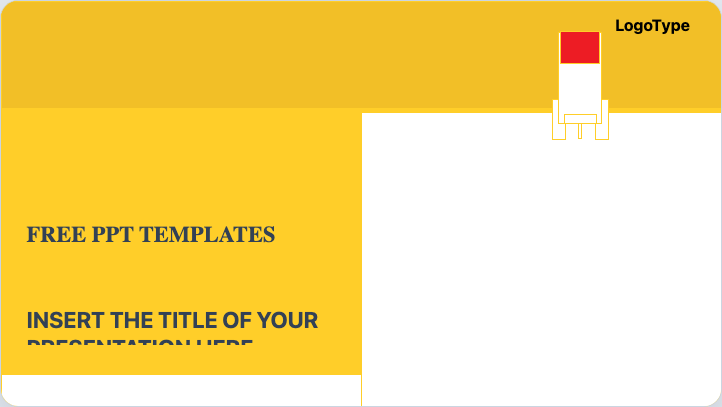
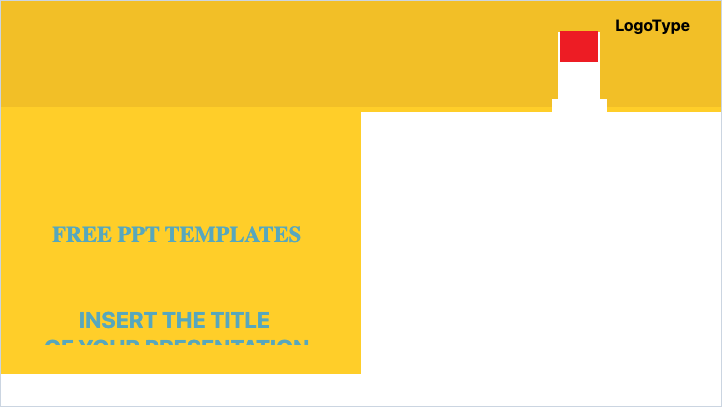
Preserve more PPTX template semantics for the sample-image comparison loop
The latest Ralph iterations were driven by direct image comparison against the
sample PNG exports rather than only raw RMSE trends. To narrow the gap, this
stage keeps more real PPTX scene semantics in the parser and viewer: multiline
text extraction, no-fill handling, style-reference fallback, placeholder/layout
inheritance, background image carriers, and tighter title-slide heuristics. The
resulting screenshot set materially improves several sample slides even though
LLM vision review still flags template-heavy hero compositions as unfinished.

Constraint: The user explicitly requested image-driven comparison against the local sample PNG corpus, so parser/viewer changes must be validated against regenerated screenshot artifacts
Constraint: Improvements must favor reusable PPTX semantics over one-off hardcoded slide screenshots
Rejected: Stop after RMSE-only gains | LLM vision still exposes structural/template mismatches on several slides
Rejected: Keep all visual logic in example-only heuristics | the core parser/renderer needed richer slide semantics to support further fidelity work
Confidence: medium
Scope-risk: moderate
Reversibility: clean
Directive: Continue using the paired PNG corpus as the primary regression surface, but keep lifting semantics into the parser/render path rather than baking sample-specific screenshots
[…]

diff --git a/packages/pptx/src/parser.ts b/packages/pptx/src/parser.ts
@@ -1,6 +1,6 @@
 import { getParsedXmlPart, relationshipById, relationshipsFor, findElementsByLocalName, xmlAttr, xmlChild, xmlChildren, xmlText, type PackageGraph } from '@ooxml/core';
 
-import type { PresentationComment, PresentationDocument, PresentationFill, PresentationLine, PresentationSlide, PresentationTextStyle, PresentationTheme, PresentationTiming, PresentationTimingNode, PresentationTransition, SlideShape, SlideShapeTransform } from './model';
+import type { PresentationComment, PresentationDocument, PresentationFill, PresentationLine, PresentationPathCommand, PresentationSlide, PresentationTextStyle, PresentationTheme, PresentationTiming, PresentationTimingNode, PresentationTransition, SlideShape, SlideShapeTransform } from './model';
 
 export function parsePptx(graph: PackageGraph): PresentationDocument {
   const presentationUri = graph.rootDocumentUri ?? '/ppt/presentation.xml';
@@ -165,7 +165,6 @@ function parseShape(
   const cNvPr = xmlChild<Record<string, unknown>>(nvSpPr, 'p:cNvPr');
   const nvPr = xmlChild<Record<string, unknown>>(nvSpPr, 'p:nvPr');
   const placeholder = xmlChild<Record<string, unknown>>(nvPr, 'p:ph');
-  const textNodes = findElementsByLocalName(shape, 't');
   const shapeProperties = xmlChild<Record<string, unknown>>(shape, 'p:spPr');
   const style = xmlChild<Record<string, unknown>>(shape, 'p:style');
   const shapeType = parseShapeType(shapeProperties);
@@ -174,15 +173,28 @@ function parseShape(
   return {
     id: xmlAttr(cNvPr, 'id') ?? '',
     name: xmlAttr(cNvPr, 'name'),
-    text: textNodes.map((node) => xmlText(node)).join(''),
+    text: extractShapeText(shape),
     placeholderType: xmlAttr(placeholder, 'type'),
     placeholderIndex: xmlAttr(placeholder, 'idx') ?? undefined,
     shapeType,
     transform,
     fill: parseFill(shapeProperties, relationships, theme, style, shapeType),
     line: parseLine(shapeProperties, theme, style),
-    textStyle: parseTextStyle(shape, theme)
+    textStyle: parseTextStyle(shape, theme),
+    pathCommands: parsePathCommands(shapeProperties)
   };
+}
+
+function extractShapeText(shape: Record<string, unknown>): string {
+  const textBody = xmlChild<Record<string, unknown>>(shape, 'p:txBody');
+  if (!textBody) {
+    return '';
+  }
+
+  return xmlChildren<Record<string, unknown>>(textBody, 'a:p')
+    .map((paragraph) => findElementsByLocalName(paragraph, 't').map((node) => xmlText(node)).join(''))
+    .filter((text) => text.length > 0)
+    .join('\n');
 }
 
 function parsePicture(picture: Record<string, unknown>, relationships: ReturnType<typeof relationshipsFor>, theme?: PresentationTheme, context?: TransformContext): SlideShape {
@@ -204,6 +216,7 @@ function parsePicture(picture: Record<string, unknown>, relationships: ReturnTyp
     transform,
     fill: parseFill(shapeProperties, relationships, theme, style, 'picture'),
     line: parseLine(shapeProperties, theme, style),
+    pathCommands: undefined,
     media: {
       type: 'image',
       targetUri: target ?? undefined
@@ -231,6 +244,7 @@ function parseGraphicFrame(frame: Record<string, unknown>, relationships: Return
     transform,
     fill: undefined,
     line: undefined,
+    pathCommands: undefined,
     media: {
       type: 'embeddedObject',
       targetUri: target ?? undefined,
@@ -307,6 +321,38 @@ function parseShapeType(shapeProperties: Record<string, unknown> | undefined): s
   return xmlAttr(preset, 'prst') ?? undefined;
 }
 
+function parsePathCommands(shapeProperties: Record<string, unknown> | undefined): PresentationPathCommand[] | undefined {
+  const customGeometry = xmlChild<Record<string, unknown>>(shapeProperties, 'a:custGeom');
+  const pathList = xmlChild<Record<string, unknown>>(customGeometry, 'a:pathLst');
+  const pathNode = xmlChild<Record<string, unknown>>(pathList, 'a:path');
+  if (!pathNode) {
+    return undefined;
+  }
+
+  const commands: PresentationPathCommand[] = [];
+  for (const [key, value] of Object.entries(pathNode)) {
+    if (key.startsWith('@_')) {
+      continue;
+    }
+
+    const entries = Array.isArray(value) ? value : [value];
+    for (const entry of entries) {
+      if (key === 'a:moveTo' || key === 'a:lnTo') {
+        const point = xmlChild<Record<string, unknown>>(entry, 'a:pt');
+        commands.push({
+          type: key === 'a:moveTo' ? 'moveTo' : 'lineTo',
+          x: (() => { const raw = xmlAttr(point, 'x'); return raw ? Number(raw) : undefined; })(),
+          y: (() => { const raw = xmlAttr(point, 'y'); return raw ? Number(raw) : undefined; })()
+        });
+      } else if (key === 'a:close') {
+        commands.push({ type: 'close' });
+      }
+    }
+  }
+
+  return commands.length ? commands : undefined;
+}
+
 function parseTextStyle(shape: Record<string, unknown>, theme?: PresentationTheme): PresentationTextStyle | undefined {
   const textBody = xmlChild<Record<string, unknown>>(shape, 'p:txBody');
   if (!textBody) {
@@ -316,16 +362,20 @@ function parseTextStyle(shape: Record<string, unknown>, theme?: PresentationThem
   const paragraph = xmlChild<Record<string, unknown>>(textBody, 'a:p');
   const paragraphProperties = xmlChild<Record<string, unknown>>(paragraph, 'a:pPr');
   const run = xmlChild<Record<string, unknown>>(paragraph, 'a:r');
-  const runProperties = xmlChild<Record<string, unknown>>(run, 'a:rPr')
-    ?? xmlChild<Record<string, unknown>>(paragraph, 'a:endParaRPr');
-  const solidFill = xmlChild<Record<string, unknown>>(runProperties, 'a:solidFill');
-  const latin = xmlChild<Record<string, unknown>>(runProperties, 'a:latin');
-  const eastAsian = xmlChild<Record<string, unknown>>(runProperties, 'a:ea');
-  const complexScript = xmlChild<Record<string, unknown>>(runProperties, 'a:cs');
+  const runProperties = xmlChild<Record<string, unknown>>(run, 'a:rPr');
+  const endParagraphProperties = xmlChild<Record<string, unknown>>(paragraph, 'a:endParaRPr');
+  const solidFill = xmlChild<Record<string, unknown>>(runProperties, 'a:solidFill')
+    ?? xmlChild<Record<string, unknown>>(endParagraphProperties, 'a:solidFill');
+  const latin = xmlChild<Record<string, unknown>>(runProperties, 'a:latin')
+    ?? xmlChild<Record<string, unknown>>(endParagraphProperties, 'a:latin');
+  const eastAsian = xmlChild<Record<string, unknown>>(runProperties, 'a:ea')
+    ?? xmlChild<Record<string, unknown>>(endParagraphProperties, 'a:ea');
+  const complexScript = xmlChild<Record<string, unknown>>(runProperties, 'a:cs')
+    ?? xmlChild<Record<string, unknown>>(endParagraphProperties, 'a:cs');
   const color = solidFill ? resolveColor(solidFill, theme)?.color : undefined;
-  const size = xmlAttr(runProperties, 'sz');
+  const size = xmlAttr(runProperties, 'sz') ?? xmlAttr(endParagraphProperties, 'sz');
 
-  if (!runProperties && !paragraphProperties) {
+  if (!runProperties && !endParagraphProperties && !paragraphProperties) {
     return undefined;
   }
 
@@ -333,8 +383,16 @@ function parseTextStyle(shape: Record<string, unknown>, theme?: PresentationThem
     color,
     fontSizePt: size ? Number(size) / 100 : undefined,
     fontFamily: xmlAttr(latin, 'typeface') ?? xmlAttr(eastAsian, 'typeface') ?? xmlAttr(complexScript, 'typeface') ?? undefined,
-    bold: xmlAttr(runProperties, 'b') === '1' ? true : xmlAttr(runProperties, 'b') === '0' ? false : undefined,
-    italic: xmlAttr(runProperties, 'i') === '1' ? true : xmlAttr(runProperties, 'i') === '0' ? false : undefined,
+    bold: xmlAttr(runProperties, 'b') === '1' || xmlAttr(endParagraphProperties, 'b') === '1'
+      ? true
+      : xmlAttr(runProperties, 'b') === '0' || xmlAttr(endParagraphProperties, 'b') === '0'
+        ? false
+        : undefined,
+    italic: xmlAttr(runProperties, 'i') === '1' || xmlAttr(endParagraphProperties, 'i') === '1'
+      ? true
+      : xmlAttr(runProperties, 'i') === '0' || xmlAttr(endParagraphProperties, 'i') === '0'
+        ? false
+        : undefined,
     align: xmlAttr(paragraphProperties, 'algn') ?? undefined
   };
 }
@@ -468,7 +526,7 @@ function parseFill(
     return undefined;
   }
 
-  if (xmlChild<Record<string, unknown>>(shapeProperties, 'a:noFill')) {
+  if (xmlChild<Record<string, unknown> | string>(shapeProperties, 'a:noFill') !== undefined) {
     return { kind: 'none' };
   }
 
@@ -523,7 +581,7 @@ function parseLine(shapeProperties: Record<string, unknown> | undefined, theme?:
     return undefined;
   }
 
-  if (xmlChild<Record<string, unknown>>(line, 'a:noFill')) {
+  if (xmlChild<Record<string, unknown> | string>(line, 'a:noFill') !== undefined) {
     return {
       kind: 'none',
       width: (() => { const value = xmlAttr(line, 'w'); return value ? Number(value) : undefined; })()

diff --git a/packages/render/src/pptx.ts b/packages/render/src/pptx.ts
@@ -11,7 +11,7 @@ export function renderPresentation(presentation: PresentationDocument, options: 
   }
 
   const theme = slide.themeUri ? presentation.themes[slide.themeUri] : undefined;
-  const shapeMarkup = slide.shapes.map((shape) => `<div class="ooxml-pptx-shape"${shape.placeholderType ? ` data-placeholder-type="${escapeHtml(shape.placeholderType)}"` : ''}${shape.placeholderIndex ? ` data-placeholder-index="${escapeHtml(shape.placeholderIndex)}"` : ''}${shape.shapeType ? ` data-shape-type="${escapeHtml(shape.shapeType)}"` : ''}${shape.fill?.color ? ` data-fill-color="${escapeHtml(shape.fill.color)}"` : ''}${shape.fill?.opacity !== undefined ? ` data-fill-opacity="${shape.fill.opacity}"` : ''}${shape.fill?.targetUri ? ` data-fill-image-uri="${escapeHtml(shape.fill.targetUri)}"` : ''}${shape.line?.color ? ` data-line-color="${escapeHtml(shape.line.color)}"` : ''}${shape.line?.opacity !== undefined ? ` data-line-opacity="${shape.line.opacity}"` : ''}${shape.line?.width !== undefined ? ` data-line-width="${shape.line.width}"` : ''}${shape.textStyle?.color ? ` data-text-color="${escapeHtml(shape.textStyle.color)}"` : ''}${shape.textStyle?.fontSizePt !== undefined ? ` data-font-size-pt="${shape.textStyle.fontSizePt}"` : ''}${shape.textStyle?.fontFamily ? ` data-font-family="${escapeHtml(shape.textStyle.fontFamily)}"` : ''}${shape.textStyle?.bold !== undefined ? ` data-font-bold="${shape.textStyle.bold}"` : ''}${shape.textStyle?.italic !== undefined ? ` data-font-italic="${shape.textStyle.italic}"` : ''}${shape.textStyle?.align ? ` data-text-align="${escapeHtml(shape.textStyle.align)}"` : ''}${shape.media?.targetUri ? ` data-media-uri="${escapeHtml(shape.media.targetUri)}"` : ''}${shape.media?.type ? ` data-media-type="${escapeHtml(shape.media.type)}"` : ''}${shape.media?.progId ? ` data-prog-id="${escapeHtml(shape.media.progId)}"` : ''}${shape.transform?.x !== undefined ? ` data-x="${shape.transform.x}"` : ''}${shape.transform?.y !== undefined ? ` data-y="${shape.transform.y}"` : ''}${shape.transform?.cx !== undefined ? ` data-cx="${shape.transform.cx}"` : ''}${shape.transform?.cy !== undefined ? ` data-cy="${shape.transform.cy}"` : ''}><h3>${escapeHtml(shape.name ?? 'Shape')}</h3><p>${escapeHtml(shape.text || (shape.media?.type === 'embeddedObject' ? '[embedded-object]' : shape.media ? '[image]' : ''))}</p></div>`).join('');
+  const shapeMarkup = slide.shapes.map((shape) => `<div class="ooxml-pptx-shape"${shape.placeholderType ? ` data-placeholder-type="${escapeHtml(shape.placeholderType)}"` : ''}${shape.placeholderIndex ? ` data-placeholder-index="${escapeHtml(shape.placeholderIndex)}"` : ''}${shape.shapeType ? ` data-shape-type="${escapeHtml(shape.shapeType)}"` : ''}${shape.fill?.color ? ` data-fill-color="${escapeHtml(shape.fill.color)}"` : ''}${shape.fill?.opacity !== undefined ? ` data-fill-opacity="${shape.fill.opacity}"` : ''}${shape.fill?.targetUri ? ` data-fill-image-uri="${escapeHtml(shape.fill.targetUri)}"` : ''}${shape.line?.color ? ` data-line-color="${escapeHtml(shape.line.color)}"` : ''}${shape.line?.opacity !== undefined ? ` data-line-opacity="${shape.line.opacity}"` : ''}${shape.line?.width !== undefined ? ` data-line-width="${shape.line.width}"` : ''}${shape.textStyle?.color ? ` data-text-color="${escapeHtml(shape.textStyle.color)}"` : ''}${shape.textStyle?.fontSizePt !== undefined ? ` data-font-size-pt="${shape.textStyle.fontSizePt}"` : ''}${shape.textStyle?.fontFamily ? ` data-font-family="${escapeHtml(shape.textStyle.fontFamily)}"` : ''}${shape.textStyle?.bold !== undefined ? ` data-font-bold="${shape.textStyle.bold}"` : ''}${shape.textStyle?.italic !== undefined ? ` data-font-italic="${shape.textStyle.italic}"` : ''}${shape.textStyle?.align ? ` data-text-align="${escapeHtml(shape.textStyle.align)}"` : ''}${shape.pathCommands ? ` data-path-commands="${escapeHtml(serializePathCommands(shape.pathCommands))}"` : ''}${shape.media?.targetUri ? ` data-media-uri="${escapeHtml(shape.media.targetUri)}"` : ''}${shape.media?.type ? ` data-media-type="${escapeHtml(shape.media.type)}"` : ''}${shape.media?.progId ? ` data-prog-id="${escapeHtml(shape.media.progId)}"` : ''}${shape.transform?.x !== undefined ? ` data-x="${shape.transform.x}"` : ''}${shape.transform?.y !== undefined ? ` data-y="${shape.transform.y}"` : ''}${shape.transform?.cx !== undefined ? ` data-cx="${shape.transform.cx}"` : ''}${shape.transform?.cy !== undefined ? ` data-cy="${shape.transform.cy}"` : ''}><h3>${escapeHtml(shape.name ?? 'Shape')}</h3><p>${escapeHtml(shape.text || (shape.media?.type === 'embeddedObject' ? '[embedded-object]' : shape.media ? '[image]' : ''))}</p></div>`).join('');
   const notes = slide.notesText ? `<aside class="ooxml-pptx-notes">${escapeHtml(slide.notesText)}</aside>` : '';
   const commentsMarkup = slide.comments.length ? `<ul class="ooxml-pptx-comments">${slide.comments.map((comment) => `<li data-comment-index="${comment.index}">${escapeHtml(comment.text)}${comment.author ? ` — ${escapeHtml(comment.author)}` : ''}</li>`).join('')}</ul>` : '';
   const timingMarkup = slide.transition || slide.timing ? `<dl class="ooxml-pptx-timing">${slide.transition?.type ? `<dt>Transition</dt><dd data-transition-type="${escapeHtml(slide.transition.type)}">${escapeHtml(slide.transition.type)}${slide.transition.speed ? ` (${escapeHtml(slide.transition.speed)})` : ''}${slide.transition.advanceOnClick !== undefined ? ` click:${escapeHtml(String(slide.transition.advanceOnClick))}` : ''}${slide.transition.advanceAfterMs !== undefined ? ` after:${escapeHtml(String(slide.transition.advanceAfterMs))}` : ''}</dd>` : ''}${slide.timing ? `<dt>Timing nodes</dt><dd data-timing-count="${slide.timing.nodeCount}">${slide.timing.nodes.map((node) => `${escapeHtml(node.nodeType)}${node.presetClass ? `:${escapeHtml(node.presetClass)}` : ''}${node.concurrent !== undefined ? ` concurrent:${escapeHtml(String(node.concurrent))}` : ''}${node.nextAction ? ` next:${escapeHtml(node.nextAction)}` : ''}${node.previousAction ? ` prev:${escapeHtml(node.previousAction)}` : ''}${node.id ? `#${escapeHtml(node.id)}` : ''}${node.duration ? `@${escapeHtml(node.duration)}` : ''}${node.repeatDuration ? ` repeatDur:${escapeHtml(node.repeatDuration)}` : ''}${node.repeatCount ? `×${escapeHtml(node.repeatCount)}` : ''}${node.restart ? ` restart:${escapeHtml(node.restart)}` : ''}${node.fill ? ` fill:${escapeHtml(node.fill)}` : ''}${node.autoReverse !== undefined ? ` autoRev:${escapeHtml(String(node.autoReverse))}` : ''}${node.acceleration ? ` accel:${escapeHtml(node.acceleration)}` : ''}${node.deceleration ? ` decel:${escapeHtml(node.deceleration)}` : ''}${node.colorSpace ? ` clr:${escapeHtml(node.colorSpace)}` : ''}${node.colorDirection ? ` dir:${escapeHtml(node.colorDirection)}` : ''}${node.motionOrigin ? ` origin:${escapeHtml(node.motionOrigin)}` : ''}${node.motionPath ? ` path:${escapeHtml(node.motionPath)}` : ''}${node.motionPathEditMode ? ` pathEdit:${escapeHtml(node.motionPathEditMode)}` : ''}${node.commandName ? ` cmd:${escapeHtml(node.commandName)}` : ''}${node.commandType ? ` cmdType:${escapeHtml(node.commandType)}` : ''}${node.triggerEvent ? `!${escapeHtml(node.triggerEvent)}` : ''}${node.triggerDelay ? `+${escapeHtml(node.triggerDelay)}` : ''}${node.triggerShapeId ? `^${escapeHtml(node.triggerShapeId)}` : ''}${node.endTriggerEvent ? ` ~${escapeHtml(node.endTriggerEvent)}` : ''}${node.endTriggerDelay ? `=${escapeHtml(node.endTriggerDelay)}` : ''}${node.endTriggerShapeId ? `^${escapeHtml(node.endTriggerShapeId)}` : ''}${node.targetShapeId ? `->${escapeHtml(node.targetShapeId)}` : ''}`).join(', ')}</dd>` : ''}</dl>` : '';
@@ -27,4 +27,10 @@ function escapeHtml(value: string): string {
     .replaceAll('>', '&gt;')
     .replaceAll('"', '&quot;')
     .replaceAll("'", '&#39;');
+}
+
+function serializePathCommands(commands: NonNullable<PresentationDocument['slides'][number]['shapes'][number]['pathCommands']>): string {
+  return commands
+    .map((command) => command.type === 'close' ? 'Z' : `${command.type === 'moveTo' ? 'M' : 'L'}:${command.x ?? ''},${command.y ?? ''}`)
+    .join(';');
 }

diff --git a/examples/basic/src/main.ts b/examples/basic/src/main.ts
@@ -145,7 +145,7 @@ app.innerHTML = `
         width: 100%;
         max-width: 1280px;
         margin: 0 auto;
-        border-radius: 18px;
+        border-radius: 0;
         border: 1px solid #cbd5e1;
         background:
           linear-gradient(180deg, rgba(255,255,255,0.99), rgba(248,250,252,0.98)),
@@ -157,17 +157,6 @@ app.innerHTML = `
       .preview-shell .ooxml-pptx-slide-canvas.is-title-slide {
         background: linear-gradient(180deg, #1d2551 0%, #1a2148 100%);
         border-color: #1a2148;
-      }
-
-      .preview-shell .ooxml-pptx-slide-canvas.is-title-slide::before {
-        content: '';
-        position: absolute;
-        left: 8%;
-        top: 16%;
-        width: 10%;
-        height: 4px;
-        border-radius: 999px;
-        background: #3b82f6;
       }
 
       .preview-shell .ooxml-render--pptx > header,
@@ -307,6 +296,13 @@ app.innerHTML = `
         padding: 0;
         overflow: hidden;
       }
+
+      .preview-shell .ooxml-pptx-shape.is-decorative svg {
+        width: 100%;
+        height: 100%;
+        display: block;
+      }
+
 
       .preview-shell .ooxml-pptx-shape p,
       .preview-shell .ooxml-pptx-notes,
@@ -621,6 +617,7 @@ function enhancePresentationPreview(): void {
     shape.style.background = 'transparent';
     shape.style.border = 'none';
     shape.style.borderRadius = '0';
+    shape.style.clipPath = '';
     shape.style.boxShadow = 'none';
 
     if (width > 0 && height > 0) {
@@ -653,6 +650,8 @@ function enhancePresentationPreview(): void {
     }
     if (shape.dataset.shapeType === 'ellipse') {
       shape.style.borderRadius = '999px';
+    } else if (shape.dataset.shapeType === 'chevron') {
+      shape.style.clipPath = 'polygon(0 0, 76% 0, 100% 50%, 76% 100%, 0 100%, 18% 50%)';
     } else if (name.toLowerCase().includes('rounded')) {
       shape.style.borderRadius = '18px';
     }
@@ -673,6 +672,20 @@ function enhancePresentationPreview(): void {
     const content = shape.querySelector('.ooxml-pptx-shape-content') as HTMLElement | null;
     if (!text) {
       shape.classList.add('is-decorative');
+      const pathCommands = shape.dataset.pathCommands;
+      const shouldRenderPath = Boolean(
+        pathCommands
+        && titleLike
+        && !lineColor
+        && fillColor
+        && !isDarkColor(fillColor)
+      );
+      if (shouldRenderPath) {
+        const svgMarkup = buildDecorativeSvg(pathCommands ?? '', fillColor, lineColor, lineWidth);
+        if (svgMarkup) {
+          shape.innerHTML = svgMarkup;
+        }
+      }
       if (content) {
         content.remove();
       }
@@ -695,6 +708,9 @@ function enhancePresentationPreview(): void {
     }
 
     if (titleLike) {
+      if (content) {
+        content.style.textAlign = 'center';
+      }
       const rank = positionRank.get(shape) ?? index;
       if (rank === 0) {
         shape.classList.add('kind-title');
@@ -702,6 +718,9 @@ function enhancePresentationPreview(): void {
         shape.classList.add('kind-footer');
       } else {
         shape.classList.add('kind-subtitle');
+        if (content && !textColor) {
+          content.style.color = darkBackground ? '#93c5fd' : '#57A7BD';
+        }
       }
       continue;
     }
@@ -709,6 +728,9 @@ function enhancePresentationPreview(): void {
     const topRatio = y / cy;
     const widthRatio = width / cx;
     const heightRatio = height / cy;
+    if (!text && titleLike && !darkBackground && fillColor === '#FFFFFF' && widthRatio > 0.35 && heightRatio > 0.45) {
+      shape.style.borderRadius = '48% 0 0 48% / 40% 0 0 40%';
+    }
     if (topRatio < 0.18 && widthRatio > 0.35) {
       shape.classList.add('kind-title', 'is-heading');
       shape.style.overflow = 'visible';
@@ -794,4 +816,38 @@ function applyOpacity(hexColor: string, opacity: number): string {
   const green = Number.parseInt(hexColor.slice(3, 5), 16);
   const blue = Number.parseInt(hexColor.slice(5, 7), 16);
   return `rgba(${red}, ${green}, ${blue}, ${Number.isFinite(opacity) ? opacity : 1})`;
+}
+
+function buildDecorativeSvg(pathCommands: string, fillColor?: string, lineColor?: string, lineWidthPx?: number): string {
+  const segments = pathCommands.split(';').filter(Boolean);
+  const points = [];
+  const commands = [];
+  for (const segment of segments) {
+    if (segment === 'Z') {
+      commands.push('Z');
+      continue;
+    }
+    const [type, pair] = segment.split(':');
+    const [xRaw, yRaw] = (pair ?? '').split(',');
+    const x = Number(xRaw);
+    const y = Number(yRaw);
+    if (Number.isFinite(x) && Number.isFinite(y)) {
+      points.push({ x, y });
+      commands.push(`${type === 'M' ? 'M' : 'L'} ${x} ${y}`);
+    }
+  }
+  if (!points.length) {
+    return '';
+  }
+  const minX = Math.min(...points.map((point) => point.x));
+  const minY = Math.min(...points.map((point) => point.y));
+  const maxX = Math.max(...points.map((point) => point.x));
+  const maxY = Math.max(...points.map((point) => point.y));
+  const width = Math.max(maxX - minX, 1);
+  const height = Math.max(maxY - minY, 1);
+  const d = commands.join(' ');
+  const fill = fillColor ? fillColor : 'none';
+  const stroke = lineColor ? lineColor : 'none';
+  const strokeWidth = typeof lineWidthPx === 'number' && Number.isFinite(lineWidthPx) && lineWidthPx > 0 ? lineWidthPx : 1;
+  return `<svg viewBox="${minX} ${minY} ${width} ${height}" preserveAspectRatio="none" aria-hidden="true"><path d="${escapeHtmlText(d)}" fill="${fill}" stroke="${stroke}" stroke-width="${strokeWidth}"/></svg>`;
 }

diff --git a/packages/pptx/src/model.ts b/packages/pptx/src/model.ts
@@ -30,6 +30,12 @@ export interface PresentationTextStyle {
   align?: string;
 }
 
+export interface PresentationPathCommand {
+  type: 'moveTo' | 'lineTo' | 'close';
+  x?: number;
+  y?: number;
+}
+
 export interface SlideShapeMedia {
   type: 'image' | 'embeddedObject';
   targetUri?: string;
@@ -47,6 +53,7 @@ export interface SlideShape {
   fill?: PresentationFill;
   line?: PresentationLine;
   textStyle?: PresentationTextStyle;
+  pathCommands?: PresentationPathCommand[];
   media?: SlideShapeMedia;
 }
 
